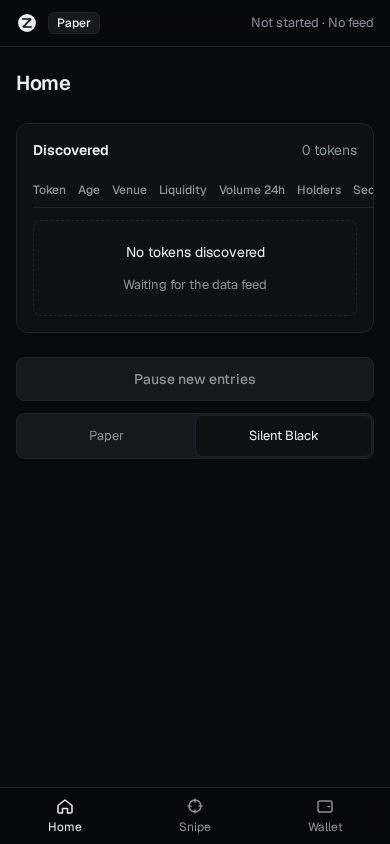
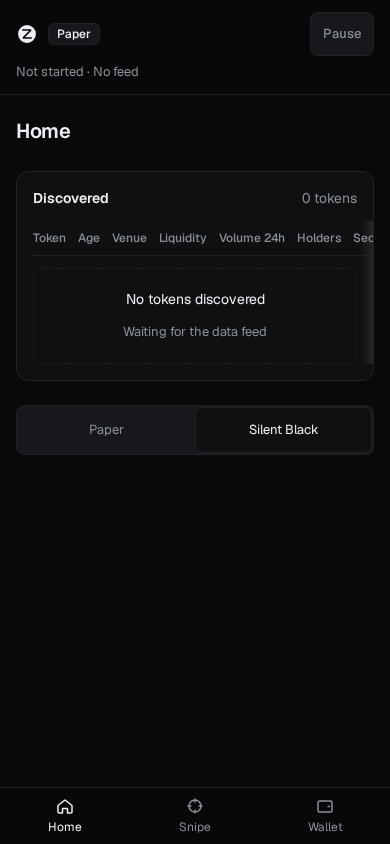
Web: review fixes for calendar contrast, touch targets and long addresses
- Day numbers on tinted calendar cells use primary text; the contrast test
  now derives the strongest gain and loss tints and checks text on them.
- Segmented controls are 44px tall; the screenshot script fails on any
  mobile control under 44px.
- Wallet addresses in the funding sheets wrap; the script fails on sideways
  scroll inside a sheet, and the fixtures Withdraw sheet shows full addresses.
- Sheet focus trap wraps from the panel itself; trade table puts Net second,
  tables show scroll shadows; mobile header carries Pause and derives its
  status from the session view model; stats wrap at large values; Costs
  spans the row; the build check also fails on fixture-named chunks or
  src/dev paths.

Claude-Session: https://claude.ai/code/session_01Ex3DnPXKguKRwSY7utcsPQ

diff --git a/apps/web/src/styles.css b/apps/web/src/styles.css
@@ -265,8 +265,20 @@ input {
   border-bottom: 1px solid var(--border);
 }
 
-.mobile-status {
+.mobile-head .button {
   margin-left: auto;
+  min-height: 44px;
+  padding: 0 12px;
+  font-size: 13px;
+}
+
+.mobile-status {
+  flex-basis: 100%;
+  margin-top: -4px;
+}
+
+.mobile-head {
+  flex-wrap: wrap;
 }
 
 .mobile-controls {
@@ -503,7 +515,7 @@ input {
 }
 
 .segmented-option {
-  min-height: 40px;
+  min-height: 44px;
   padding: 0 10px;
   border: 0;
   border-radius: 6px;
@@ -553,6 +565,12 @@ input {
   overflow-x: auto;
   margin: 0 -16px;
   padding: 0 16px;
+  /* Edge shadows show when the table scrolls sideways. */
+  background:
+    linear-gradient(to right, var(--surface) 30%, transparent) left / 32px 100% no-repeat local,
+    linear-gradient(to left, var(--surface) 30%, transparent) right / 32px 100% no-repeat local,
+    linear-gradient(to right, color-mix(in srgb, var(--text) 10%, transparent), transparent) left / 12px 100% no-repeat scroll,
+    linear-gradient(to left, color-mix(in srgb, var(--text) 10%, transparent), transparent) right / 12px 100% no-repeat scroll;
 }
 
 .table {
@@ -683,7 +701,7 @@ input {
 
 .stat-row {
   display: grid;
-  grid-template-columns: repeat(4, minmax(0, 1fr));
+  grid-template-columns: repeat(auto-fit, minmax(140px, 1fr));
   gap: 16px;
 }
 
@@ -693,12 +711,17 @@ input {
   }
 }
 
+.stat {
+  min-width: 0;
+}
+
 .stat dt {
   font-size: 13px;
   color: var(--text-2);
 }
 
 .stat dd {
+  overflow-wrap: anywhere;
   font-size: 20px;
   font-weight: 600;
   letter-spacing: -0.01em;
@@ -791,6 +814,11 @@ input {
 
 .calendar-day {
   color: var(--text-2);
+}
+
+/* On tinted cells the day number uses primary text (checked by the contrast test). */
+.calendar-button .calendar-day {
+  color: var(--text);
 }
 
 .calendar-net {
@@ -988,6 +1016,12 @@ input {
   display: grid;
   gap: 4px;
   font-size: 14px;
+}
+
+.address {
+  font-family: 'Geist Mono', ui-monospace, 'SF Mono', Menlo, monospace;
+  font-size: 13px;
+  overflow-wrap: anywhere;
 }
 
 .field-label {

diff --git a/apps/web/src/theme/contrast.ts b/apps/web/src/theme/contrast.ts
@@ -13,6 +13,28 @@ export function luminance(hex: string): number {
   return 0.2126 * r + 0.7152 * g + 0.0722 * b;
 }
 
+/** Strongest P&L calendar tint, in percent of gain/loss mixed into the surface. */
+export const CALENDAR_TINT_MAX = 32;
+
+/** CSS color-mix(in srgb, a p%, b): straight interpolation of the encoded channels. */
+export function mix(a: string, b: string, percentA: number): string {
+  const ch = (h: string) => [1, 3, 5].map((i) => parseInt(h.slice(i, i + 2), 16));
+  const [x, y] = [ch(a), ch(b)];
+  const p = percentA / 100;
+  return `#${x.map((v, i) => Math.round(v * p + (y[i] ?? 0) * (1 - p)).toString(16).padStart(2, '0')).join('').toUpperCase()}`;
+}
+
+/** Adds the surfaces the app derives from tokens, so their text pairs are checked too. */
+export function withDerived(tokens: Tokens): Tokens {
+  const out = { ...tokens };
+  const surface = tokens['--surface'];
+  for (const tone of ['gain', 'loss']) {
+    const c = tokens[`--${tone}`];
+    if (c && surface) out[`--tint-${tone}-max`] = mix(c, surface, CALENDAR_TINT_MAX);
+  }
+  return out;
+}
+
 export function contrastRatio(a: string, b: string): number {
   const la = luminance(a);
   const lb = luminance(b);
@@ -39,6 +61,7 @@ export function pairs(): Pair[] {
     for (const fg of MARKS) out.push({ fg, bg, min: 3, use: 'chart mark' });
   }
   out.push({ fg: '--accent-fg', bg: '--accent', min: 4.5, use: 'button text' });
+  for (const bg of ['--tint-gain-max', '--tint-loss-max']) out.push({ fg: '--text', bg, min: 4.5, use: 'calendar text' });
   return out;
 }
 
@@ -46,7 +69,8 @@ export interface Failure extends Pair {
   ratio: number;
 }
 
-export function checkTheme(tokens: Tokens): Failure[] {
+export function checkTheme(base: Tokens): Failure[] {
+  const tokens = withDerived(base);
   const failures: Failure[] = [];
   for (const p of pairs()) {
     const fg = tokens[p.fg];

diff --git a/apps/web/src/shell/Status.tsx b/apps/web/src/shell/Status.tsx
@@ -1,5 +1,11 @@
+import { useId } from 'react';
 import { Dot } from '../components/ui.tsx';
 import type { SessionView } from '../screens/types.ts';
+
+const SESSION_STATE: Record<SessionView['state'], string> = { 'not-started': 'Not started', running: 'Running', paused: 'Paused', ended: 'Ended' };
+
+export const sessionLabel = (s: SessionView) => SESSION_STATE[s.state];
+export const dataLabel = (s: SessionView) => (s.workerConnected ? 'Connected' : 'No feed');
 
 export const modeLabel = (s: SessionView) => (s.mode === 'live' ? 'Live' : 'Paper');
 
@@ -16,24 +22,25 @@ export function StatusList({ session }: { session: SessionView }) {
       <div>
         <dt>Session</dt>
         <dd>
-          <Dot state="off" /> Not started
+          <Dot state={session.state === 'running' ? 'on' : 'off'} /> {sessionLabel(session)}
         </dd>
       </div>
       <div>
         <dt>Data</dt>
         <dd>
-          <Dot state="off" /> No feed
+          <Dot state={session.workerConnected ? 'on' : 'off'} /> {dataLabel(session)}
         </dd>
       </div>
     </dl>
   );
 }
 
-export function PauseButton() {
+export function PauseButton({ compact = false }: { compact?: boolean }) {
+  const noteId = useId();
   return (
-    <button type="button" className="button button-block" disabled aria-describedby="pause-note">
-      Pause new entries
-      <span id="pause-note" className="sr-only">
+    <button type="button" className={compact ? 'button' : 'button button-block'} disabled aria-label={compact ? 'Pause new entries' : undefined} aria-describedby={noteId}>
+      {compact ? 'Pause' : 'Pause new entries'}
+      <span id={noteId} className="sr-only">
         Worker not connected
       </span>
     </button>

diff --git a/apps/web/test/contrast.test.ts b/apps/web/test/contrast.test.ts
@@ -1,6 +1,6 @@
 import { readFileSync } from 'node:fs';
 import { describe, expect, it } from 'vitest';
-import { checkTheme, contrastRatio, parseThemes } from '../src/theme/contrast.ts';
+import { CALENDAR_TINT_MAX, checkTheme, contrastRatio, mix, parseThemes, withDerived } from '../src/theme/contrast.ts';
 
 const css = readFileSync(new URL('../src/theme/tokens.css', import.meta.url), 'utf8');
 const themes = parseThemes(css);
@@ -26,6 +26,25 @@ describe('theme contrast', () => {
     const bad = { ...themes['paper'], '--text-2': '#B0B0B0' };
     const failures = checkTheme(bad);
     expect(failures.some((f) => f.fg === '--text-2' && f.use === 'text')).toBe(true);
+  });
+
+  it('mixes like CSS color-mix in srgb', () => {
+    expect(mix('#000000', '#FFFFFF', 50)).toBe('#808080');
+    expect(mix('#FF0000', '#0000FF', 25)).toBe('#4000BF');
+  });
+
+  it('checks text on the strongest calendar tint', () => {
+    expect(Object.keys(withDerived(themes['paper'] ?? {}))).toEqual(expect.arrayContaining(['--tint-gain-max', '--tint-loss-max']));
+    // Secondary text on the strongest tint is the pair the review caught; it must fail if used.
+    const t = withDerived(themes['black'] ?? {});
+    expect(contrastRatio(t['--text-2'] ?? '', t['--tint-gain-max'] ?? '')).toBeLessThan(4.5);
+    expect(CALENDAR_TINT_MAX).toBe(32);
+  });
+
+  it('fails a seeded tint that drowns the calendar text', () => {
+    // As if the day numbers kept secondary text: the tinted pair must fail.
+    const bad = { ...themes['black'], '--text': themes['black']?.['--text-2'] ?? '' };
+    expect(checkTheme(bad).some((f) => f.bg === '--tint-gain-max')).toBe(true);
   });
 
   it('fails when a token is missing', () => {

diff --git a/apps/web/src/performance/TradeHistory.tsx b/apps/web/src/performance/TradeHistory.tsx
@@ -13,11 +13,11 @@ export function TradeHistory({ trades, onSelect }: { trades: TradeView[]; onSele
         <thead>
           <tr>
             <th scope="col">Token</th>
-            <th scope="col">Closed</th>
+            <th scope="col" className="num">Net</th>
             <th scope="col" className="num">Size</th>
             <th scope="col" className="num">Fees</th>
-            <th scope="col" className="num">Net</th>
             <th scope="col" className="num">Held</th>
+            <th scope="col">Closed</th>
             <th scope="col">Exit</th>
           </tr>
         </thead>
@@ -30,11 +30,11 @@ export function TradeHistory({ trades, onSelect }: { trades: TradeView[]; onSele
                   <span className="mono muted">{shortAddress(t.mint)}</span>
                 </button>
               </td>
-              <td className="mono muted">{formatDateTime(t.closedAt)}</td>
+              <td className={`num ${tone(t.netUsd)}`}>{formatUsd(t.netUsd, true)}</td>
               <td className="num">{formatUsd(t.sizeUsd)}</td>
               <td className="num">{formatUsd(t.feesUsd)}</td>
-              <td className={`num ${tone(t.netUsd)}`}>{formatUsd(t.netUsd, true)}</td>
               <td className="num">{formatDuration(t.holdSeconds)}</td>
+              <td className="mono muted">{formatDateTime(t.closedAt)}</td>
               <td className="muted truncate">{t.reasonOut}</td>
             </tr>
           ))}

diff --git a/apps/web/src/App.tsx b/apps/web/src/App.tsx
@@ -9,7 +9,7 @@ import { Wallet } from './screens/Wallet.tsx';
 import { NavIcon } from './shell/icons.tsx';
 import { Lockup, Mark } from './shell/Logo.tsx';
 import { EMPTY_SESSION } from './screens/types.ts';
-import { modeLabel, PauseButton, StatusList } from './shell/Status.tsx';
+import { dataLabel, modeLabel, PauseButton, sessionLabel, StatusList } from './shell/Status.tsx';
 import { ThemeSwitch } from './shell/ThemeSwitch.tsx';
 
 // Dev-only: import.meta.env.DEV is false in production, so this import is dropped from the build.
@@ -89,7 +89,10 @@ export function App() {
           <header className="mobile-head">
             <Mark size={22} />
             <span className="badge badge-neutral">{modeLabel(EMPTY_SESSION)}</span>
-            <span className="mobile-status muted small">Not started · No feed</span>
+            <PauseButton compact />
+            <span className="mobile-status muted small">
+              {sessionLabel(EMPTY_SESSION)} · {dataLabel(EMPTY_SESSION)}
+            </span>
           </header>
         )}
 
@@ -110,7 +113,6 @@ export function App() {
           </AnimatePresence>
           {!desktop && (
             <div className="mobile-controls">
-              <PauseButton />
               <ThemeSwitch />
             </div>
           )}

diff --git a/apps/web/src/dev/Fixtures.tsx b/apps/web/src/dev/Fixtures.tsx
@@ -1,4 +1,6 @@
+import { useCallback, useState } from 'react';
 import { Section } from '../components/ui.tsx';
+import { FundingSheet, type FundingKind } from '../funding/FundingSheet.tsx';
 import { ResultsStats } from '../performance/ResultsStats.tsx';
 import { RiskMeters } from '../performance/RiskMeters.tsx';
 import { Results } from '../performance/Results.tsx';
@@ -9,6 +11,8 @@ import { FIXTURE_MARKER, fixtureResults, fixtureResultsSmall, fixtureSession, fi
 
 /** Dev-only review page. Every value here is fake. */
 export default function Fixtures() {
+  const [funding, setFunding] = useState<FundingKind | null>(null);
+  const close = useCallback(() => setFunding(null), []);
   return (
     <div className="screen-grid" data-marker={FIXTURE_MARKER}>
       <div className="fixture-banner span-2" role="note">
@@ -25,7 +29,8 @@ export default function Fixtures() {
         <ResultsStats stats={fixtureResultsSmall.stats} />
       </Section>
       <Results view={fixtureResults} />
-      <WalletSummary wallet={fixtureWallet} />
+      <WalletSummary wallet={fixtureWallet} onFund={setFunding} />
+      <FundingSheet kind={funding} onClose={close} savedWallet={fixtureWallet.savedWallet} botWallet={fixtureWallet.botAddress} gatePassed />
     </div>
   );
 }

diff --git a/apps/web/src/funding/FundingSheet.tsx b/apps/web/src/funding/FundingSheet.tsx
@@ -38,14 +38,14 @@ export function FundingSheet({ kind, onClose, savedWallet, botWallet, gatePassed
           </div>
           <div className="field-block">
             <span className="field-label">Bot wallet</span>
-            <span className={botWallet && gatePassed ? 'mono' : 'muted'}>{gatePassed ? (botWallet ?? 'Not created') : 'Shown after the gate passes'}</span>
+            <span className={botWallet && gatePassed ? 'address' : 'muted'}>{gatePassed ? (botWallet ?? 'Not created') : 'Shown after the gate passes'}</span>
           </div>
         </>
       ) : (
         <div className="withdraw-form">
           <div className="field-block">
             <span className="field-label">Sends to</span>
-            <span className={savedWallet ? 'mono' : 'muted'}>{savedWallet ?? 'No saved wallet'}</span>
+            <span className={savedWallet ? 'address' : 'muted'}>{savedWallet ?? 'No saved wallet'}</span>
           </div>
           <label className="field-block" htmlFor={amountId}>
             <span className="field-label">Amount (SOL)</span>

diff --git a/apps/web/src/screens/Snipe.tsx b/apps/web/src/screens/Snipe.tsx
@@ -3,9 +3,9 @@ import { formatUsd } from '../lib/format.ts';
 import { emptyResults, type ResultsView } from '../performance/types.ts';
 import { Results } from '../performance/Results.tsx';
 import { RiskMeters } from '../performance/RiskMeters.tsx';
+import { sessionLabel } from '../shell/Status.tsx';
 import { EMPTY_SESSION, type SessionView } from './types.ts';
 
-const STATE: Record<SessionView['state'], string> = { 'not-started': 'Not started', running: 'Running', paused: 'Paused', ended: 'Ended' };
 const NOT_SET = 'Not set';
 
 const usd = (v: number | null) => (v === null ? NOT_SET : formatUsd(v));
@@ -20,7 +20,7 @@ export function SessionCard({ session }: { session: SessionView }) {
     ['Session loss', usd(session.sessionLossLimitUsd)],
   ];
   return (
-    <Section title="Session" aside={<Badge>{STATE[session.state]}</Badge>}>
+    <Section title="Session" aside={<Badge>{sessionLabel(session)}</Badge>}>
       <dl className="kv">
         {rows.map(([k, v]) => (
           <div key={k}>

diff --git a/apps/web/src/performance/PnlCalendar.tsx b/apps/web/src/performance/PnlCalendar.tsx
@@ -1,4 +1,5 @@
 import { formatUsd, formatUsdCompact } from '../lib/format.ts';
+import { CALENDAR_TINT_MAX } from '../theme/contrast.ts';
 import type { DayResultView } from './types.ts';
 
 const WEEKDAYS = ['Mon', 'Tue', 'Wed', 'Thu', 'Fri', 'Sat', 'Sun'];
@@ -53,7 +54,7 @@ export function PnlCalendar({ month, days, onSelectDay }: Props) {
                 );
               }
               const tone = result.netUsd > 0 ? 'gain' : result.netUsd < 0 ? 'loss' : 'flat';
-              const strength = maxAbs ? 10 + Math.round((Math.abs(result.netUsd) / maxAbs) * 22) : 0;
+              const strength = maxAbs ? 10 + Math.round((Math.abs(result.netUsd) / maxAbs) * (CALENDAR_TINT_MAX - 10)) : 0;
               const count = result.tradeIds.length;
               return (
                 <div role="gridcell" key={i} className="calendar-cell">

diff --git a/apps/web/src/components/Sheet.tsx b/apps/web/src/components/Sheet.tsx
@@ -34,10 +34,12 @@ export function Sheet({ open, title, onClose, children, footer }: SheetProps) {
       const first = items[0];
       const last = items[items.length - 1];
       if (!first || !last) return;
-      if (e.shiftKey && document.activeElement === first) {
+      const active = document.activeElement as HTMLElement | null;
+      const inside = !!active && items.includes(active);
+      if (e.shiftKey && (active === first || !inside)) {
         e.preventDefault();
         last.focus();
-      } else if (!e.shiftKey && document.activeElement === last) {
+      } else if (!e.shiftKey && (active === last || !inside)) {
         e.preventDefault();
         first.focus();
       }

diff --git a/apps/web/src/dev/fixtures.ts b/apps/web/src/dev/fixtures.ts
@@ -129,8 +129,8 @@ export const fixtureSession: SessionView = {
 };
 
 export const fixtureWallet: WalletView = {
-  botAddress: 'FAKEbotWa11etxxxxxxxxxxxxxxxxxxxxxxxxxxxxxx',
-  savedWallet: 'FAKEsavedWa11etxxxxxxxxxxxxxxxxxxxxxxxxxxxx',
+  botAddress: 'FAKEbotWa11et9kQmZr7Hc2VnX4pLdT8sYwB3uJeGfN',
+  savedWallet: 'FAKEsavedWa11etR5mKz2Qh8VcN6pXdL3sTwY9uBjE',
   availableUsd: 23812.4,
   reserveSol: 0.75,
   lockedSol: 0.0123,
